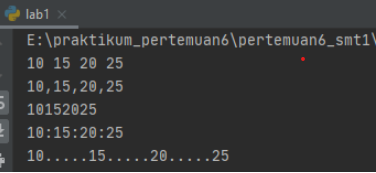
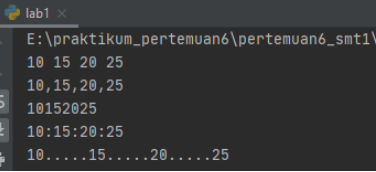
pysource

diff --git a/README.md b/README.md
@@ -208,4 +208,4 @@ print(w,x,y,z,sep="-----")`
 ```
 
 hasil dari syntax / source code diatas adalah seperti berikut ini : <br>
-![Output Fungsi Print](Foto/pylab.png) <br>
+![Output Fungsi Print](Foto/pysource.png) <br>
